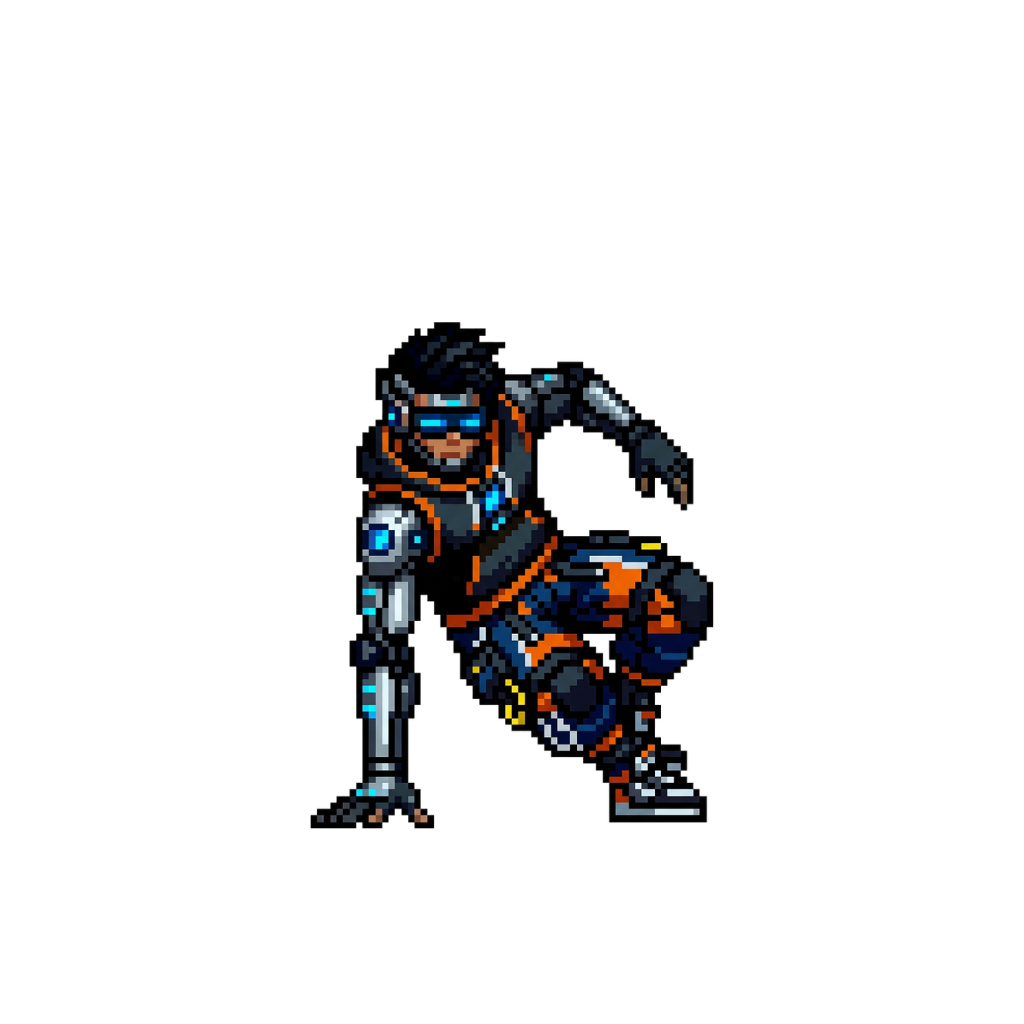
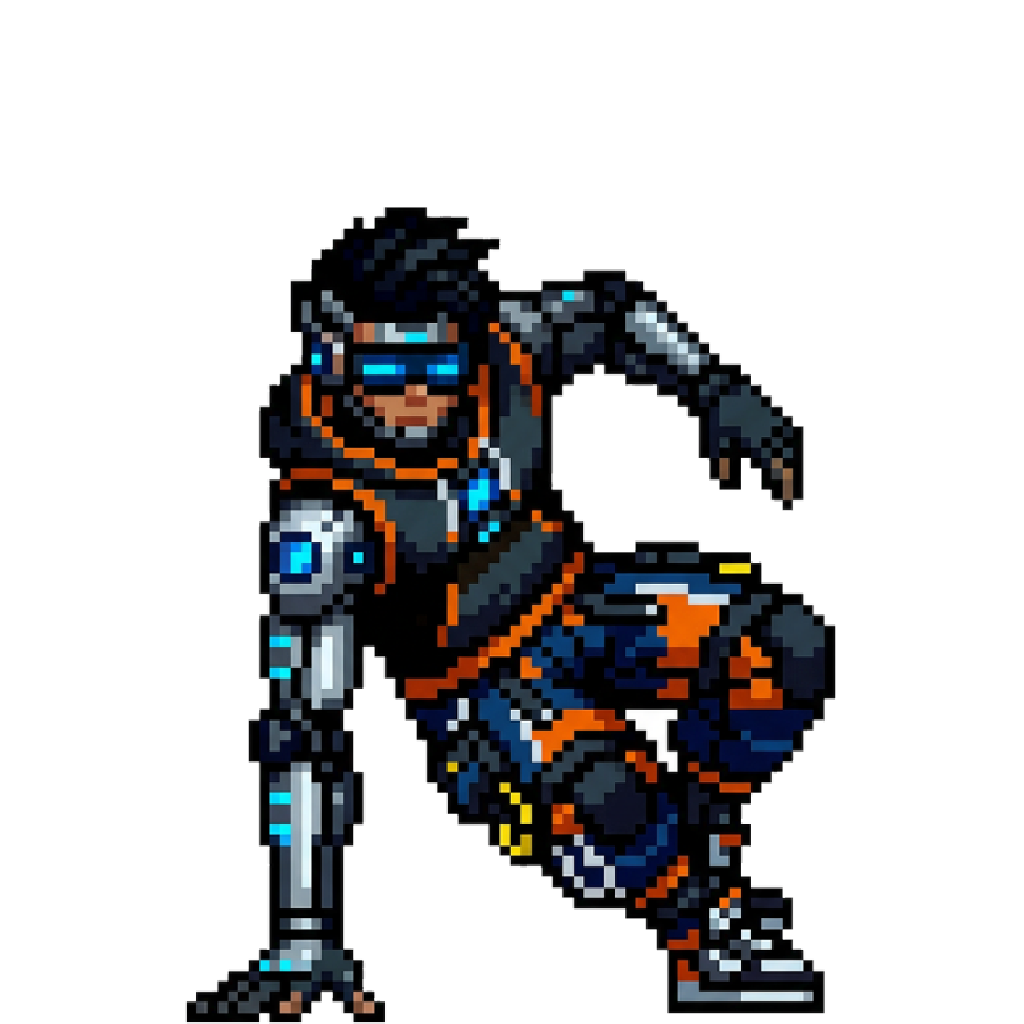
Apply new baby_freeze f1~f6 frames
- Replace old bboy_freeze_* files with new baby_freeze_f1~f6.png
- Update move_data.dart frame paths
- Run fix_sprites.py: background removal + canvas normalization

Changed region(s): [[0.1562, 0.1875, 0.8438, 1.0]]

diff --git a/lib/data/move_data.dart b/lib/data/move_data.dart
@@ -112,12 +112,12 @@ const List<MoveData> kMoves = [
     attack: 20, buff: Buff('DEF +5', 1),
     desc: '팔꿈치를 옆구리에 고정하고 공중에서 멈추는 기초 프리즈.',
     frames: [
-      'assets/images/animations/baby_freeze/bboy_freeze_f1_1772667724774.png',
-      'assets/images/animations/baby_freeze/bboy_freeze_f2_1772667740068.png',
-      'assets/images/animations/baby_freeze/bboy_freeze_f3_1772667757810.png',
-      'assets/images/animations/baby_freeze/bboy_freeze_f4_1772667771184.png',
-      'assets/images/animations/baby_freeze/bboy_freeze_f5.png',
-      'assets/images/animations/baby_freeze/bboy_freeze_f6.png',
+      'assets/images/animations/baby_freeze/baby_freeze_f1.png',
+      'assets/images/animations/baby_freeze/baby_freeze_f2.png',
+      'assets/images/animations/baby_freeze/baby_freeze_f3.png',
+      'assets/images/animations/baby_freeze/baby_freeze_f4.png',
+      'assets/images/animations/baby_freeze/baby_freeze_f5.png',
+      'assets/images/animations/baby_freeze/baby_freeze_f6.png',
     ],
   ),
   MoveData(
